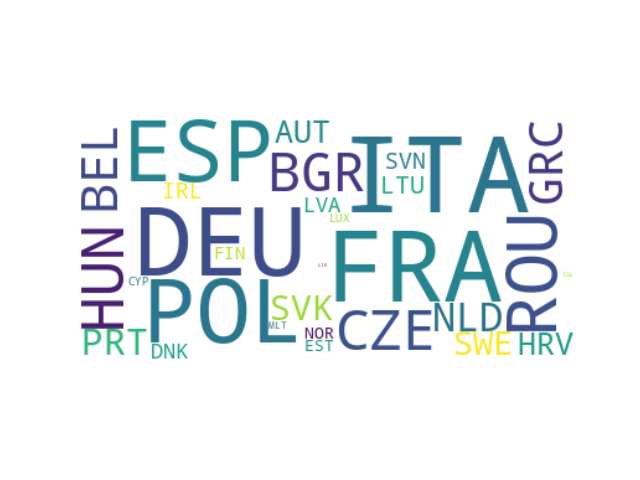
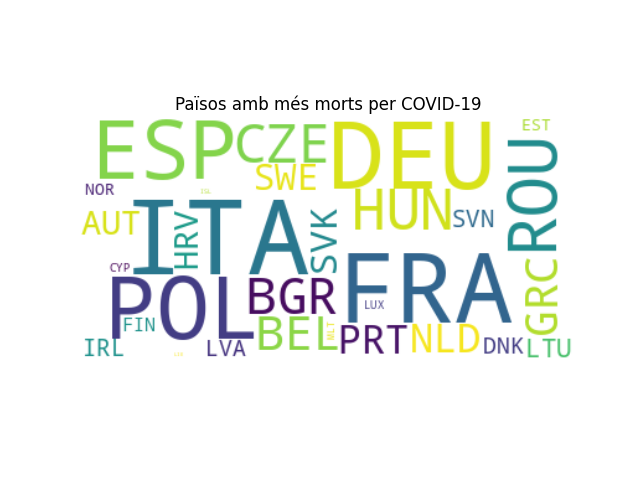
style

Changed region(s): [[0.125, 0.1875, 0.9062, 0.75]]

diff --git a/icon.py b/icon.py
@@ -46,7 +46,7 @@ for country in countries:
         column += 1
 
     #data.append(go.Scatter(x=columns, y=heads, mode='markers', marker={'color': "black", 'symbol': 'circle', 'size': 10}))
-    data.append(go.Scatter(x=columns, y=rows, mode='markers', marker={'color': "grey", 'symbol': 'circle', 'size': 20}, name=f"{country} population"))
+    data.append(go.Scatter(x=columns, y=rows, mode='markers', marker={'color': "grey", 'symbol': 'circle', 'size': 20}, name=f"{country} població"))
 
     last_row = row
     row = init_row
@@ -67,7 +67,7 @@ for country in countries:
         column += 1
 
     #data.append(go.Scatter(x=columns, y=heads, mode='markers', marker={'color': "blue", 'symbol': 'circle', 'size': 10}))
-    data.append(go.Scatter(x=columns, y=rows, mode='markers', marker={'color': "blue", 'symbol': 'circle', 'size': 20},  name=f"{country} cases"))
+    data.append(go.Scatter(x=columns, y=rows, mode='markers', marker={'color': "blue", 'symbol': 'circle', 'size': 20},  name=f"{country} casos"))
 
     row = last_row + 1
     column = 0
@@ -75,5 +75,5 @@ for country in countries:
 fig = go.Figure(dict(data=data, layout=go.Layout(plot_bgcolor='white',
                                                  xaxis=dict(visible=False),
                                                  yaxis=dict(visible=False))))
-fig.update_layout(title='COVID-19 cases per country', title_x=0.45, title_y=0.95, font=dict(size=18))
+fig.update_layout(title='Població i casos de COVID-19 per país', title_x=0.45, title_y=0.95, font=dict(size=18))
 fig.show()

diff --git a/word_cloud.py b/word_cloud.py
@@ -25,5 +25,6 @@ wordcloud = WordCloud(collocations=False, background_color="white").generate_fro
 # Display the generated image:
 plt.imshow(wordcloud, interpolation='bilinear')
 plt.axis("off")
+plt.title("Països amb més morts per COVID-19")
 plt.savefig('cloud.png')
 plt.show()

diff --git a/stream.py b/stream.py
@@ -54,7 +54,7 @@ ax.axhline(0, color="black", ls="--")
 plt.xticks(rotation=90)
 ps = [Rectangle((0, 0), 1, 1, fc=col) for col in colors]
 plt.legend(ps, countries)
-
+plt.title("Morts per COVID-19 per país i mes")
 plt.savefig('stream.png')
 
 plt.show()
